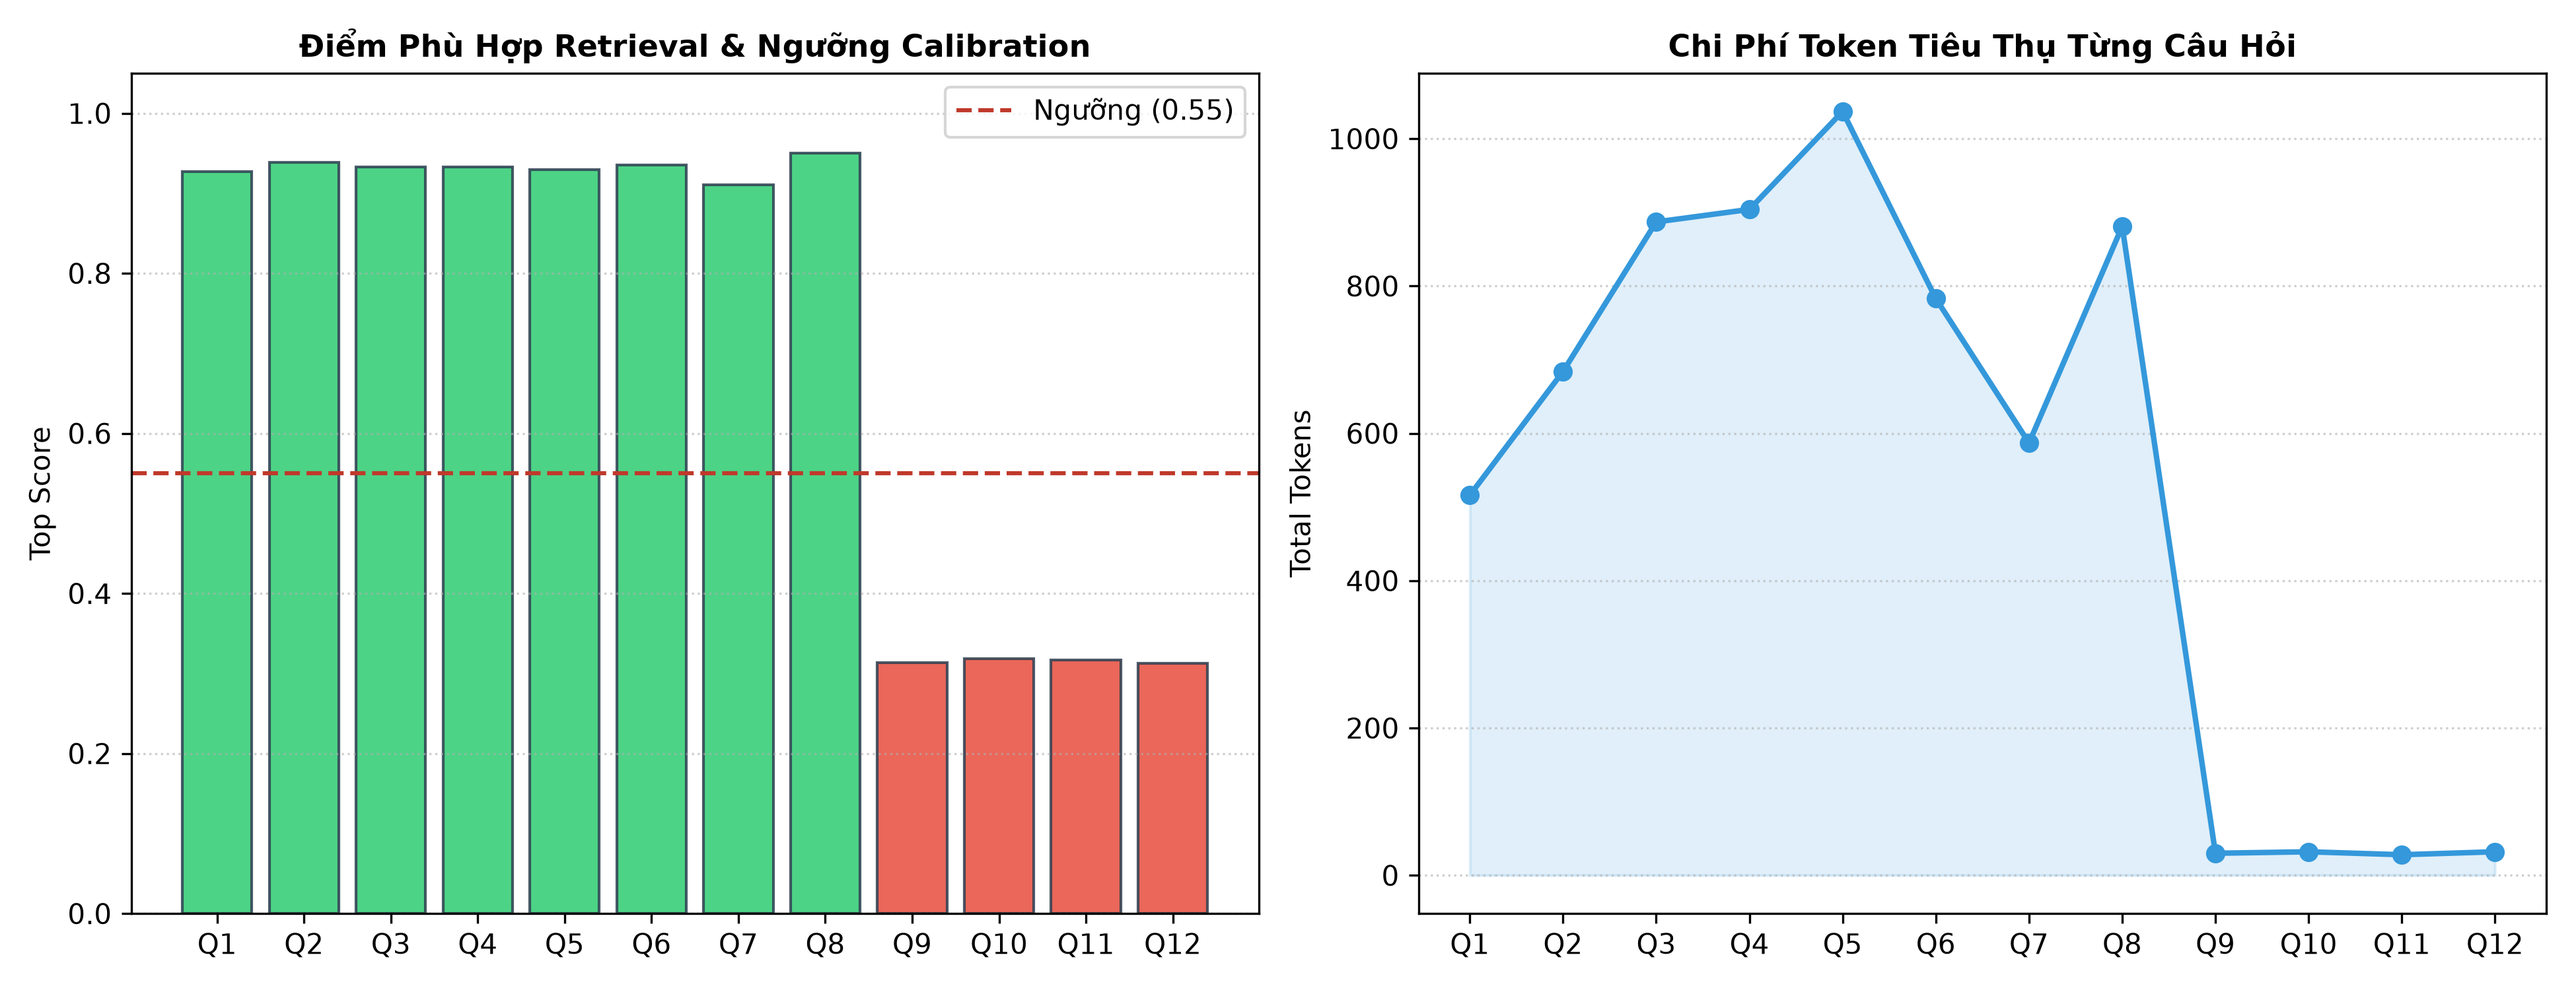
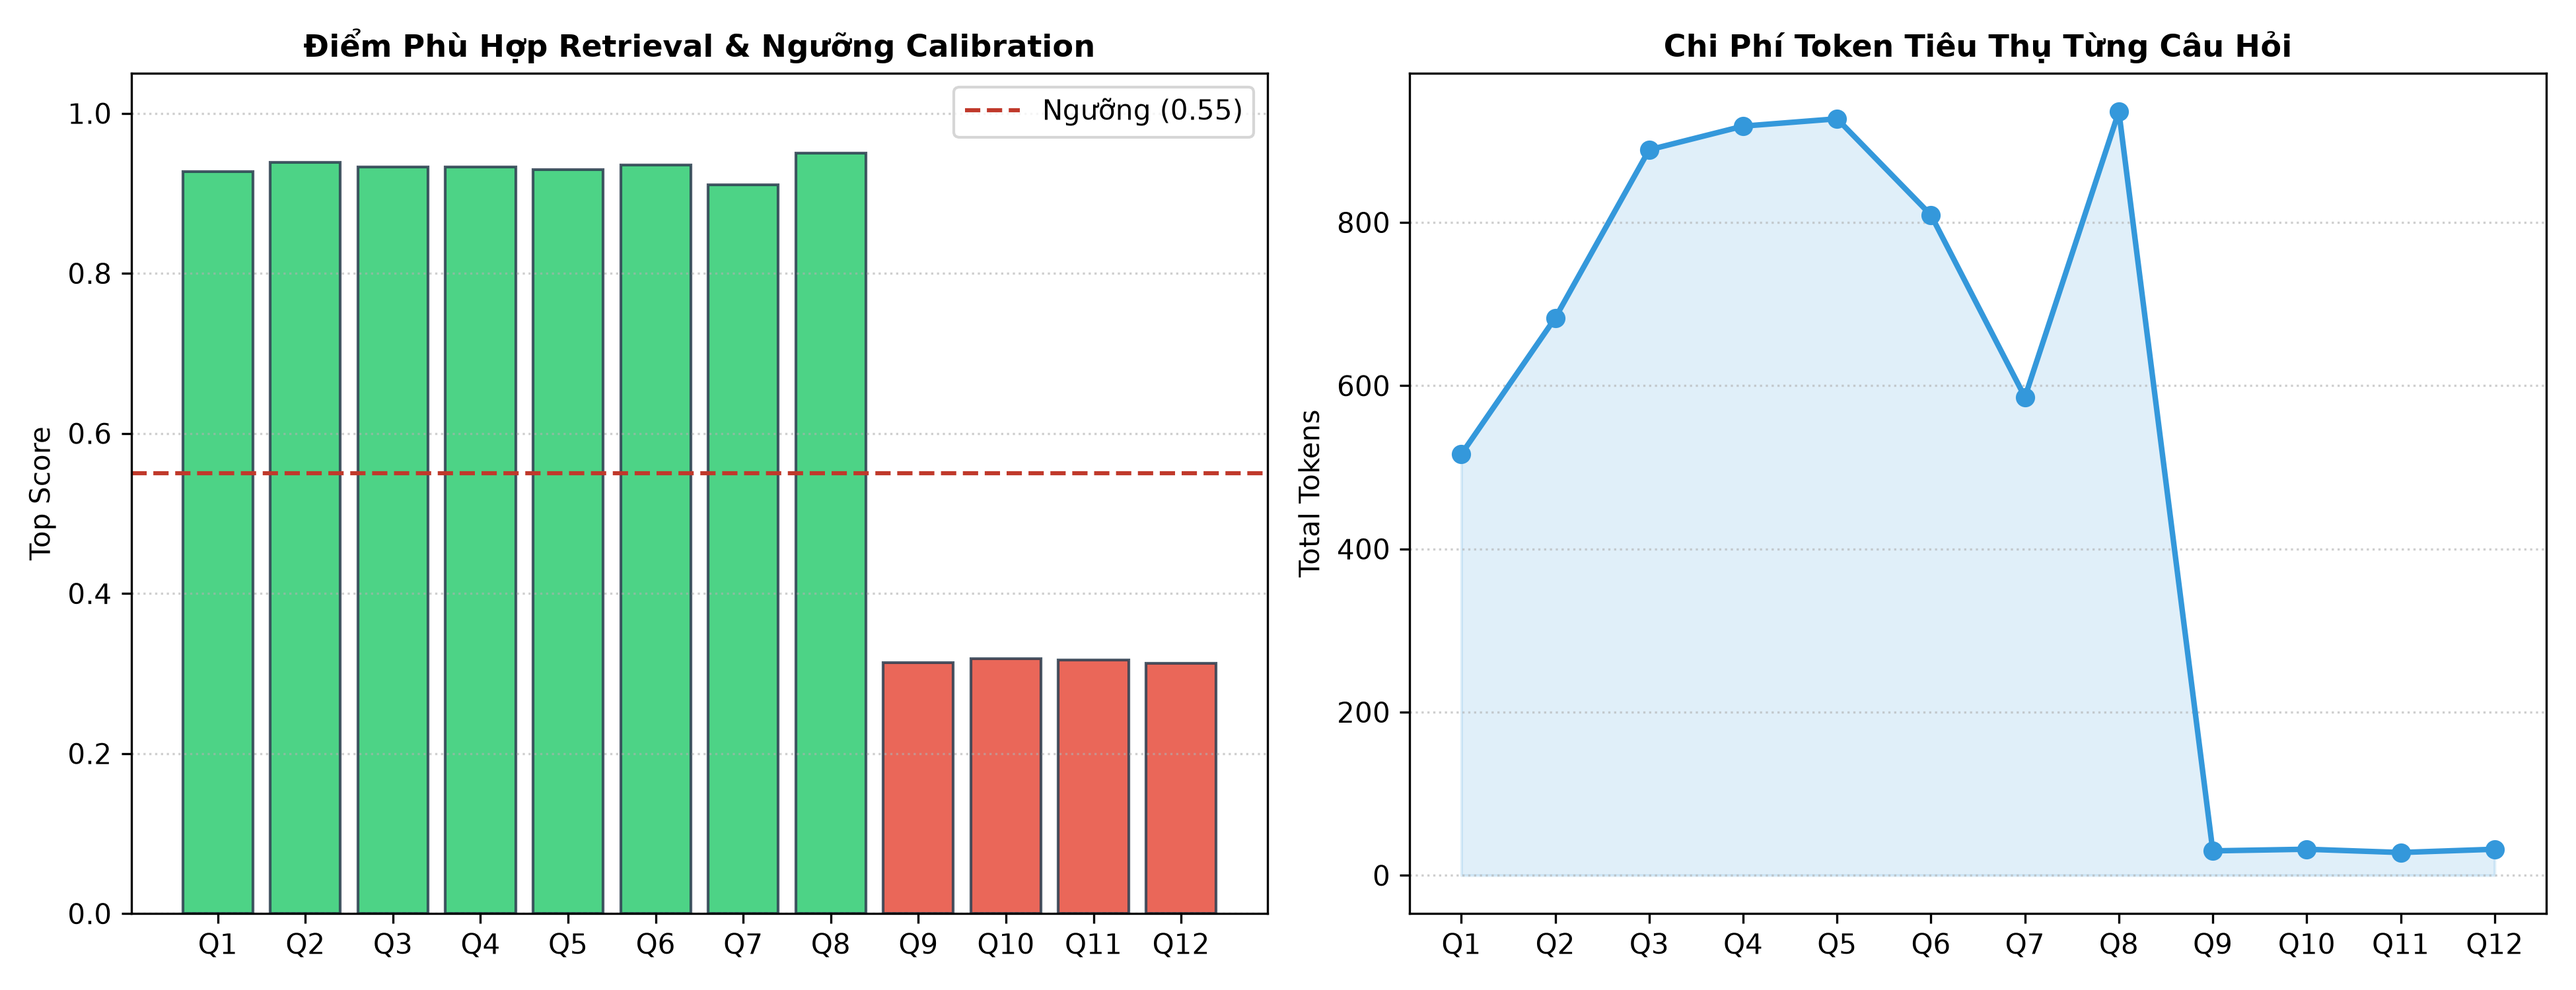
chores, refactor: Adjust the README, fix code and template closes #2, closes #3

diff --git a/run_evaluation.py b/run_evaluation.py
@@ -252,7 +252,7 @@ def evaluate_system(mode: str = "hybrid", threshold: float = 0.55):
     except Exception as e:
         print(f"[dim]Note: Không thể vẽ biểu đồ: {e}[/dim]")
 
-    # 6. Ablation Study (+1 Điểm cộng: So sánh Dense vs Hybrid Search)
+    # 6. Ablation Study (So sánh Dense với Hybrid Search)
     ablation_summary = run_ablation_comparison(retriever, cases, threshold)
 
     print(Panel.fit(

diff --git a/src/retrieval/README.md b/src/retrieval/README.md
@@ -1,27 +1,83 @@
 # Retrieval Module
 
 ## Overview
-The `retrieval/` package serves as the core search engine for the Social Work RAG Agent. It handles indexing chunks into dense and sparse vector spaces and retrieving the most relevant contexts for a given user query.
 
-## Modules & Responsibilities
-- `embedder.py`: Wraps HuggingFace's `SentenceTransformer` to produce embedding vectors for document chunks and user queries (`intfloat/multilingual-e5-base`).
-- `bm25.py`: Lexical BM25 search over tokenized and stopword-filtered Vietnamese documents.
-- `dense_search.py`: Cosine similarity search over precomputed dense vectors.
-- `vector_store.py`: In-memory storage for chunks and dense embeddings.
-- `hybrid_search.py`: **Central Search Engine** combining BM25 and Dense search using Min-Max score normalization and tunable weights ($\alpha \cdot \text{Dense} + (1-\alpha) \cdot \text{BM25}$). Supports metadata filtering (`doc_id`).
-- `calibration.py`: Independent confidence filter applying an absolute score threshold to reject out-of-domain or irrelevant queries.
+The `retrieval` package implements the Grounded Retrieval Layer of the Social Work RAG Agent. It combines Lexical BM25 search with Dense Semantic vector search (Hybrid Search), supports metadata filtering, and enforces confidence calibration to reject out-of-domain queries.
 
-## Query Processing Workflow
-1. Load chunks from `data/ctxh_chunks.json` and embeddings from `data/ctxh_embeddings.json`.
-2. Format queries with `query: ` prefix (matching E5 passage prefix `passage: `).
-3. Compute dense cosine similarities and sparse BM25 scores across all chunks.
-4. Apply metadata filter (e.g., `doc_id="D2"`) if specified.
-5. Min-max normalize both score distributions to $[0, 1]$ and compute weighted hybrid scores.
-6. Return calibrated `List[RetrievalResult]` chunks ranked by score.
+## Module Architecture
 
-## Testing
-Run the retrieval test suite:
-```bash
-pytest tests/test_retrieval.py -v
+| Module | Technical Responsibility |
+| :--- | :--- |
+| **`embedder.py`** | Wraps `SentenceTransformer` using `intfloat/multilingual-e5-base` (768 dimensions). Applies the required `passage: ` prefix for indexing and `query: ` prefix for queries, outputting L2-normalized vectors. |
+| **`bm25.py`** | Lexical keyword retrieval utilizing `BM25Okapi` with Vietnamese word segmentation and domain-tailored administrative stopword removal. |
+| **`dense_search.py`** | Semantic vector search calculating cosine similarity via matrix dot products over precomputed L2-normalized embeddings. |
+| **`hybrid_search.py`** | Core retrieval engine that fuses dense semantic scores and sparse lexical scores via Min-Max normalization, performs domain concept checks, and enforces metadata filtering. |
+| **`calibration.py`** | Confidence calibration filter applying an absolute decision threshold (`threshold = 0.55`) to trigger safe refusal (`no_answer`) on unsupported or irrelevant questions. |
+| **`vector_store.py`** | In-memory storage abstraction managing document chunks and their associated embedding vectors. |
+
+## Hybrid Search Formulation
+
+The hybrid retrieval score fuses normalized dense semantic similarity and sparse BM25 relevance using a configurable weighting factor $\alpha$ (default $\alpha = 0.5$):
+
+$$\text{Score}_{\text{hybrid}} = \alpha \cdot \text{Score}_{\text{dense}} + (1 - \alpha) \cdot \text{Score}_{\text{sparse}}$$
+
+- **Dense Semantic Score**: Dot product of normalized query and document embeddings.
+- **Sparse BM25 Score**: Min-Max normalized BM25 score scaled by query domain relevance confidence.
+- **Domain Verification**: Checks for regulatory CTXH terms; queries devoid of domain concepts have their dense scores penalized to prevent false-positive matches on general vocabulary.
+
+## Metadata Filtering
+
+The search engine supports pre-ranking metadata filtering through the `filter_metadata` parameter in `HybridSearch.search()`:
+
+```python
+# Filter retrieval candidates strictly to a specific document version or ID
+results = retriever.search(
+    query="điều kiện xét tốt nghiệp",
+    top_k=3,
+    filter_metadata={"doc_id": "CTXH_001"}
+)
 ```
+
+Chunks not matching the filter criteria are assigned a score of `-1.0` and excluded from the final ranked list.
+
+## Confidence Calibration
+
+To satisfy the refusal benchmark and eliminate hallucination:
+
+- **Threshold**: Set to `0.55` based on empirical ablation experiments.
+- **Decision Logic**: If the top-ranked candidate score satisfies $\text{Score}_{\text{top}} \ge 0.55$, the retrieval context is passed to the generation layer.
+- **Rejection Behavior**: If $\text{Score}_{\text{top}} < 0.55$, `calibrator.should_answer()` returns `False`, causing the pipeline to emit the standard refusal response: *"Tôi chưa tìm thấy đủ căn cứ trong tài liệu hiện có để trả lời câu hỏi này (no_answer)."*
+
+## Query Execution Workflow
+
+```
+User Query
+   │
+   ├──> Tokenize & Filter Stopwords ──> BM25 Scoring ──> Min-Max Normalize
+   │
+   ├──> Encode ("query: ...") ────────> Cosine Sim ───> Normalize
+   │
+   └──> Score Fusion & Metadata Filter
+           │
+           ▼
+        Ranked Results (Top-K)
+           │
+           ▼
+     Calibration Check (Score >= 0.55)
+      ├── Yes ──> Emit Context with Citations [doc_id, chunk_id]
+      └── No  ──> Trigger Safe Refusal (no_answer)
+```
+
+## Testing & Verification
+
+Run unit tests for retrieval, calibration, normalization, and metadata filtering:
+
+```bash
+# Using pytest directly
+pytest tests/test_retrieval.py -v
+
+# Using uv
+uv run pytest tests/test_retrieval.py -v
+```
+
 

diff --git a/src/data_preprocessing/README.md b/src/data_preprocessing/README.md
@@ -2,53 +2,68 @@
 
 ## Overview
 
-The `data_preprocessing/` package prepares source documents for the Social Work RAG Agent. It loads processed documents, splits their content into manageable chunks, preserves relevant metadata, and exports the resulting dataset as JSON.
+The `data_preprocessing` package handles the extraction, normalization, chunking, and metadata preservation of HCMUTE Social Work (CTXH) regulatory documents. It produces the standardized corpus `data/ctxh_chunks.json`, which serves as the knowledge base for Grounded Retrieval and Hybrid Search (BM25 + Dense E5).
 
-## Module Responsibilities
+## Module Architecture
 
-- `document_loader.py`: Loads processed documents and converts them into structured document objects.
-- `chunker.py`: Splits document content into chunks while preserving Markdown tables and relevant metadata.
-- `build_dataset.py`: Coordinates document loading and chunking, then saves the generated dataset to `data/ctxh_chunks.json`.
-- `__init__.py`: Marks the directory as a Python package.
+- **`document_loader.py`**: Reads processed Markdown (`.md`) files from `data/processed/` using `utf-8-sig` encoding and maps each document to standardized metadata (document ID, official title, decision number `224/QĐ-ĐHSPKT-CTHSSV`, version, and source URL).
+- **`chunker.py`**: Normalizes whitespace and applies a sliding-window chunking strategy (`CHUNK_SIZE`, `CHUNK_OVERLAP`) to retain contextual continuity and table structures across split boundaries.
+- **`build_dataset.py`**: Entrypoint script that executes the complete preprocessing pipeline and serializes the generated chunks into JSON.
+- **`document_store.py`**: In-memory repository providing querying, retrieval, and CRUD interfaces for documents and chunk objects.
 
-## Workflow
+## Pipeline Workflow
 
-1. Load documents from `data/processed/`.
-2. Normalize document text and identify Markdown tables.
-3. Split text into chunks according to the configured chunk size and overlap.
-4. Preserve document identifiers, chunk indices, metadata, and content types.
-5. Export the chunks to `data/ctxh_chunks.json`.
+1. **Document Ingestion**: Loads verified source regulations (`CTXH_001` - 2013 Decision 224; `CTXH_002` - 2024 Student Handbook).
+2. **Text Normalization**: Cleans excessive whitespace and standardizes line breaks while preserving document hierarchies.
+3. **Sliding-Window Chunking**: Splits text into chunks of target size with character overlap to ensure cross-boundary facts are not fragmented.
+4. **Metadata Propagation**: Attaches document-level provenance attributes (`doc_id`, `title`, `document_number`) to every individual chunk for citation tracking.
+5. **Serialization**: Exports the structured chunk collection to `data/ctxh_chunks.json`.
 
-Text chunks use overlap to preserve context between consecutive chunks. Markdown tables are split by rows, with table headers repeated when a table spans multiple chunks.
+## Configuration Parameters
 
-## Configuration
+Parameters are defined centrally in `config.py`:
 
-Chunking parameters are defined in the root `config.py` file.
+| Parameter | Default Value | Description |
+| :--- | :--- | :--- |
+| `CHUNK_SIZE` | `1000` | Target character count per text chunk. |
+| `CHUNK_OVERLAP` | `200` | Overlapping character count between consecutive chunks. |
+| `PROCESSED_DATA_PATH` | `data/processed` | Directory containing cleaned Markdown documents. |
+| `OUTPUT_PATH` | `data/ctxh_chunks.json` | Target destination for serialized chunk dataset. |
 
-- `CHUNK_SIZE`: Target maximum size of a text chunk.
-- `CHUNK_OVERLAP`: Number of overlapping characters between consecutive text chunks.
+## Execution
 
-Adjust these values based on document structure and retrieval requirements.
-
-## Run the Pipeline
-
-From the project root:
+Run the preprocessing pipeline from the repository root:
 
 ```bash
+# Using uv
 uv run python -m src.data_preprocessing.build_dataset
+
+# Using standard Python
+python -m src.data_preprocessing.build_dataset
 ```
 
-The command generates or overwrites `data/ctxh_chunks.json`.
+## Output Schema
 
-## Output
+Each item in `data/ctxh_chunks.json` conforms to the `DocumentChunk` dataclass defined in `src/schemas.py`:
 
-Each chunk contains:
+```json
+{
+  "doc_id": "CTXH_001",
+  "chunk_id": "CTXH_001_0",
+  "chunk_index": 0,
+  "content": "QUY ĐỊNH\nTổ chức thực hiện chương trình Công tác xã hội...",
+  "metadata": {
+    "document_type": "regulation",
+    "document_number": "224/QĐ-ĐHSPKT-CTHSSV",
+    "publication_year": 2013,
+    "language": "Vietnamese"
+  },
+  "embedding": null
+}
+```
 
-- `doc_id`: Identifier of the source document.
-- `chunk_id`: Unique identifier of the chunk.
-- `chunk_index`: Position of the chunk within its document.
-- `content`: Text content of the chunk.
-- `metadata`: Document metadata and content type.
-- `embedding`: Optional embedding vector, initially set to `null`.
+- **`doc_id`**: Source document identifier, utilized for metadata-filtered retrieval.
+- **`chunk_id`**: Globally unique chunk identifier, cited in verified RAG responses.
+- **`content`**: Text payload indexed by BM25 and vectorized by the Dense Embedder.
+- **`embedding`**: Placeholder initialized to `null`, computed downstream by `src/retrieval/embedder.py`.
 
-The generated dataset is consumed by the retrieval component.

diff --git a/README.md b/README.md
@@ -173,3 +173,12 @@ LLM_MAX_DELAY=30
 ##  Academic Integrity & AI Usage
 
 In compliance with project guidelines, all AI assistance is transparently documented in [ai-usage.md](ai-usage.md). All core algorithms, schemas, calibration heuristics, and ReAct loops were designed, verified, and tested by the team.
+
+
+```
+Author: 
+- Tran Thien An - 24110077
+- Le Ngoc Hai - 24110089
+- Tran Gia Kiet - 24110103
+This project is a part of subject in University, 2026 - 2027. This aims to build a RAG system to answer questions about Ho Chi Minh University of Technology and Engineering.
+```
